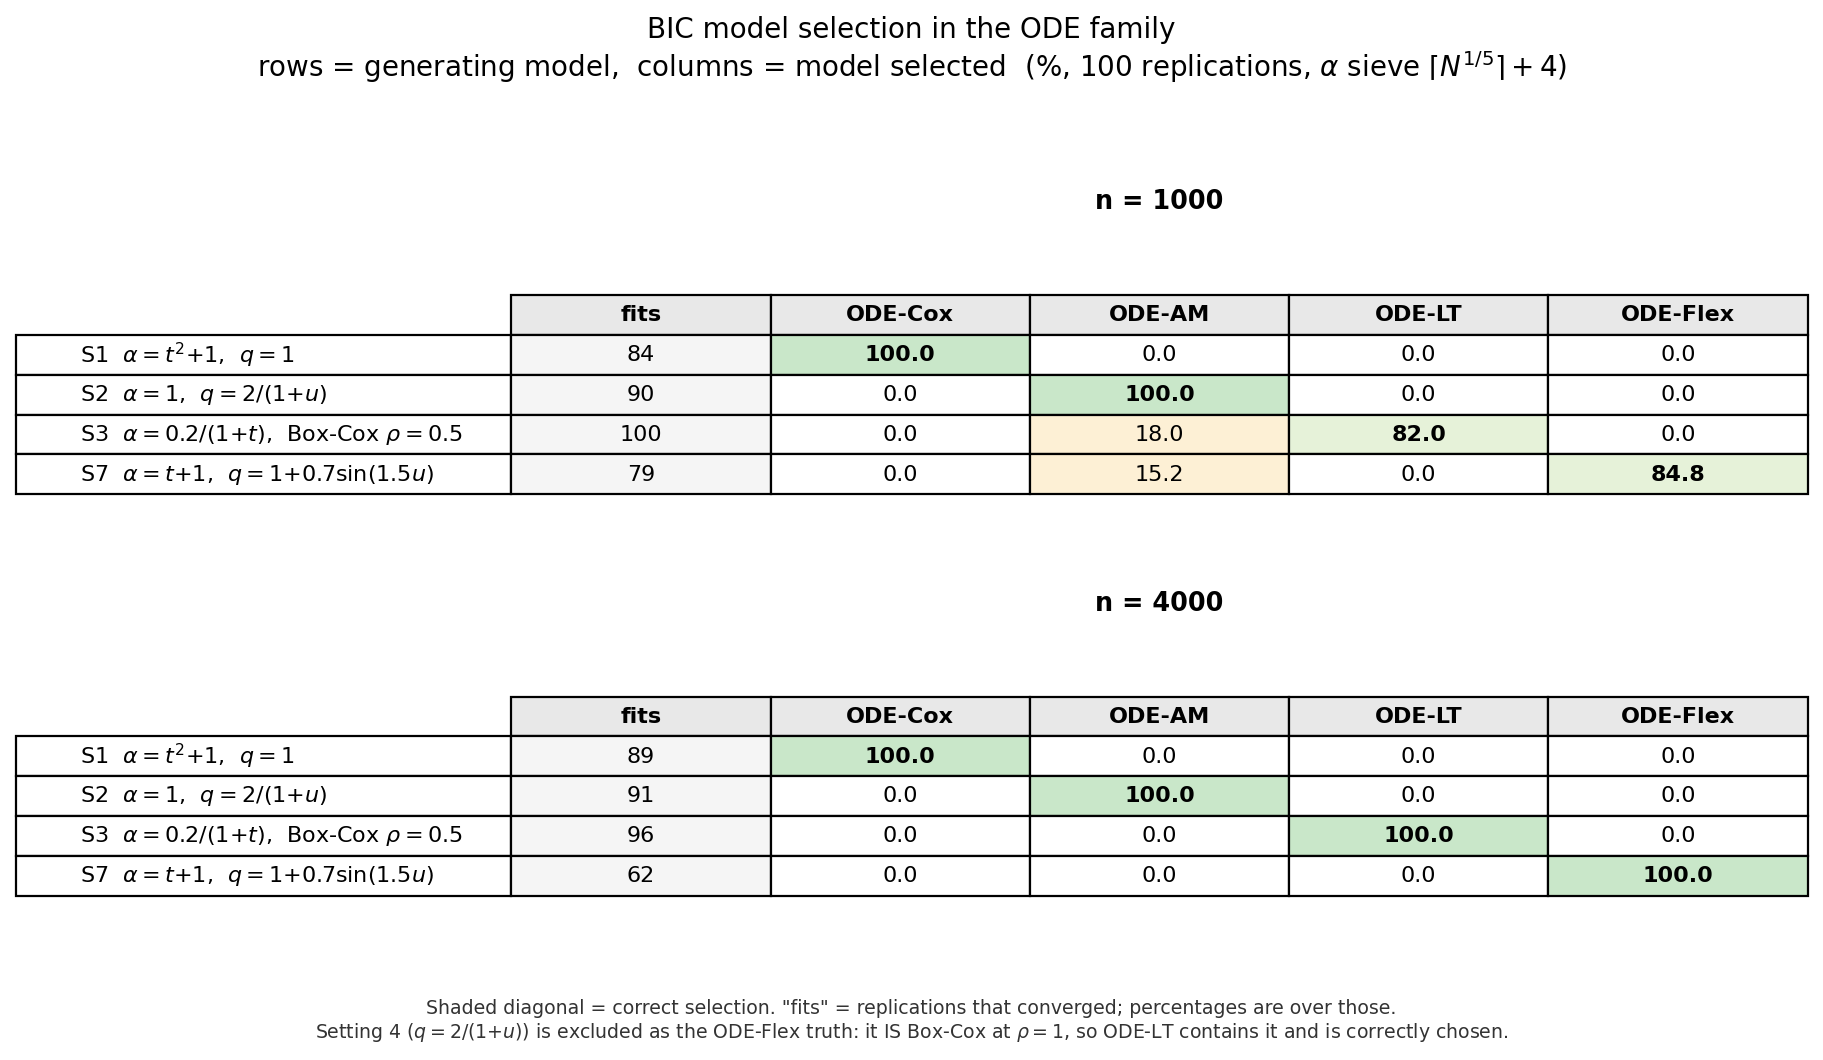
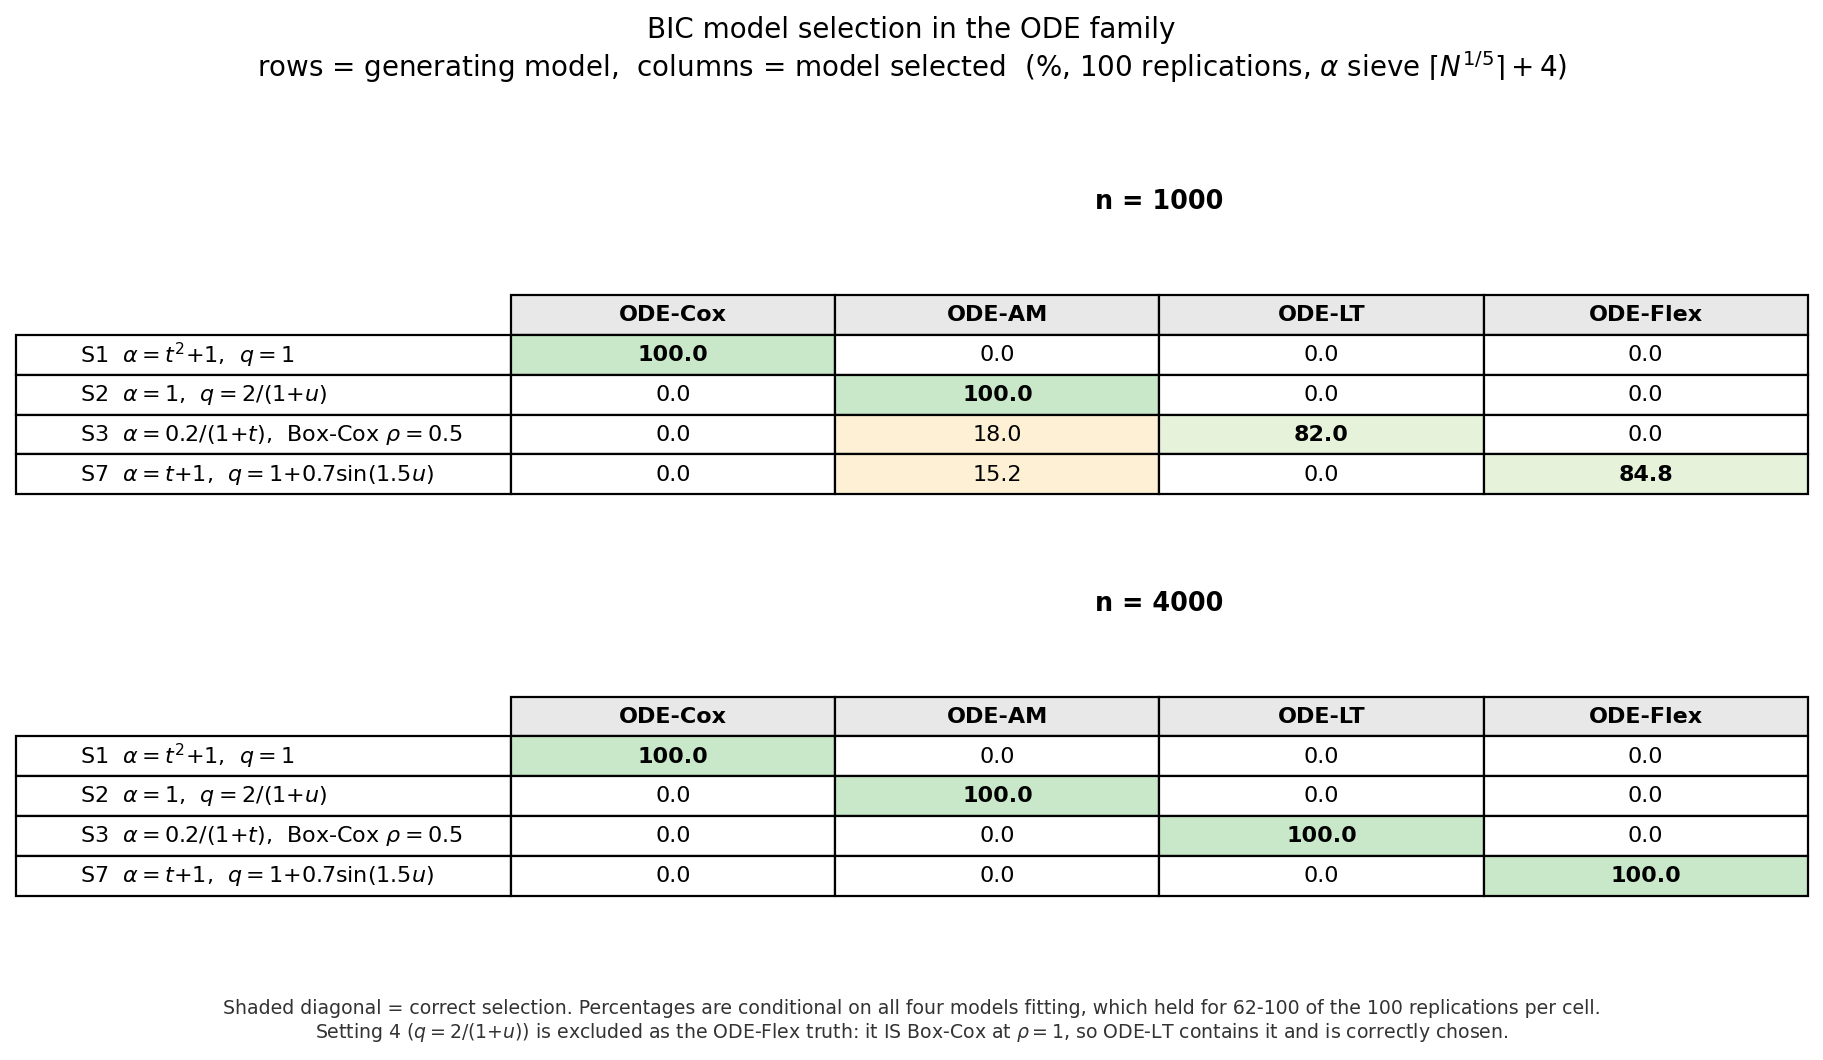
Drop the fits column from the BIC selection figure
The column reported how many of the 100 replications produced a complete set
of four comparable fits. Removing it leaves the four selection columns as the
only numbers in the table, which reads more cleanly.

The convergence information moves to the caption rather than being lost: the
percentages are conditional on all four models fitting, which held for 62-100
of the 100 replications per cell. The range is computed from the data, so it
tracks the underlying results rather than being hard-coded.

diff --git a/numerical_study/plot_bic_selection.py b/numerical_study/plot_bic_selection.py
@@ -37,43 +37,48 @@ def main(csv=None, out=None, ns=(1000, 4000)):
 
     for ax, n in zip(axes, ns):
         ax.axis('off')
-        cells, colours, rlab = [], [], []
+        cells, colours, rlab, nok = [], [], [], []
         for s, key, name, spec in ROWS:
             r = d[(d.setting == s) & (d.n == n)]
             if not len(r):
                 continue
             r = r.iloc[0]
             rlab.append(f'  {spec}   ')
-            cells.append([f'{int(r["ok"])}'] +
-                         [f'{r[KEY[c]]:.1f}' for c in COLS])
+            cells.append([f'{r[KEY[c]]:.1f}' for c in COLS])
             colours.append([KEY[c] == key for c in COLS])
+            nok.append(int(r['ok']))
         if not cells:
             continue
-        tb = ax.table(cellText=cells, colLabels=['fits'] + COLS,
+        tb = ax.table(cellText=cells, colLabels=COLS,
                       rowLabels=rlab, cellLoc='center', rowLoc='left',
                       loc='center')
         tb.auto_set_font_size(False); tb.set_fontsize(10); tb.scale(1, 1.6)
-        for j in range(len(COLS) + 1):
+        for j in range(len(COLS)):
             tb[0, j].set_facecolor('#e8e8e8')
             tb[0, j].set_text_props(weight='bold')
         for i, diag in enumerate(colours, start=1):
-            for j, on in enumerate(diag, start=1):
+            for j, on in enumerate(diag):
                 v = float(cells[i - 1][j])
                 if on:
                     tb[i, j].set_facecolor('#c9e7c9' if v >= 95 else '#e6f2d9')
                     tb[i, j].set_text_props(weight='bold')
                 elif v > 0:
                     tb[i, j].set_facecolor('#fdf0d5')
-            tb[i, 0].set_facecolor('#f5f5f5')
         ax.set_title(f'n = {n}', fontsize=11.5, weight='bold', pad=6)
+        # the convergence range moves to the caption rather than being dropped:
+        # the percentages are conditional on all four models fitting
+        ax._nok = (min(nok), max(nok))
 
     fig.suptitle('BIC model selection in the ODE family\n'
                  'rows = generating model,  columns = model selected  '
                  r'(%, 100 replications, $\alpha$ sieve $\lceil N^{1/5}\rceil+4$)',
                  fontsize=12.5)
+    rng = [a._nok for a in axes if hasattr(a, '_nok')]
+    lo = min(r[0] for r in rng) if rng else 0
+    hi = max(r[1] for r in rng) if rng else 0
     fig.text(0.5, 0.012,
-             'Shaded diagonal = correct selection. "fits" = replications that converged; '
-             'percentages are over those.\n'
+             'Shaded diagonal = correct selection. Percentages are conditional on all four '
+             f'models fitting, which held for {lo}-{hi} of the 100 replications per cell.\n'
              r'Setting 4 ($q=2/(1{+}u)$) is excluded as the ODE-Flex truth: it IS Box-Cox at '
              r'$\rho=1$, so ODE-LT contains it and is correctly chosen.',
              ha='center', fontsize=8.5, color='#333333')
